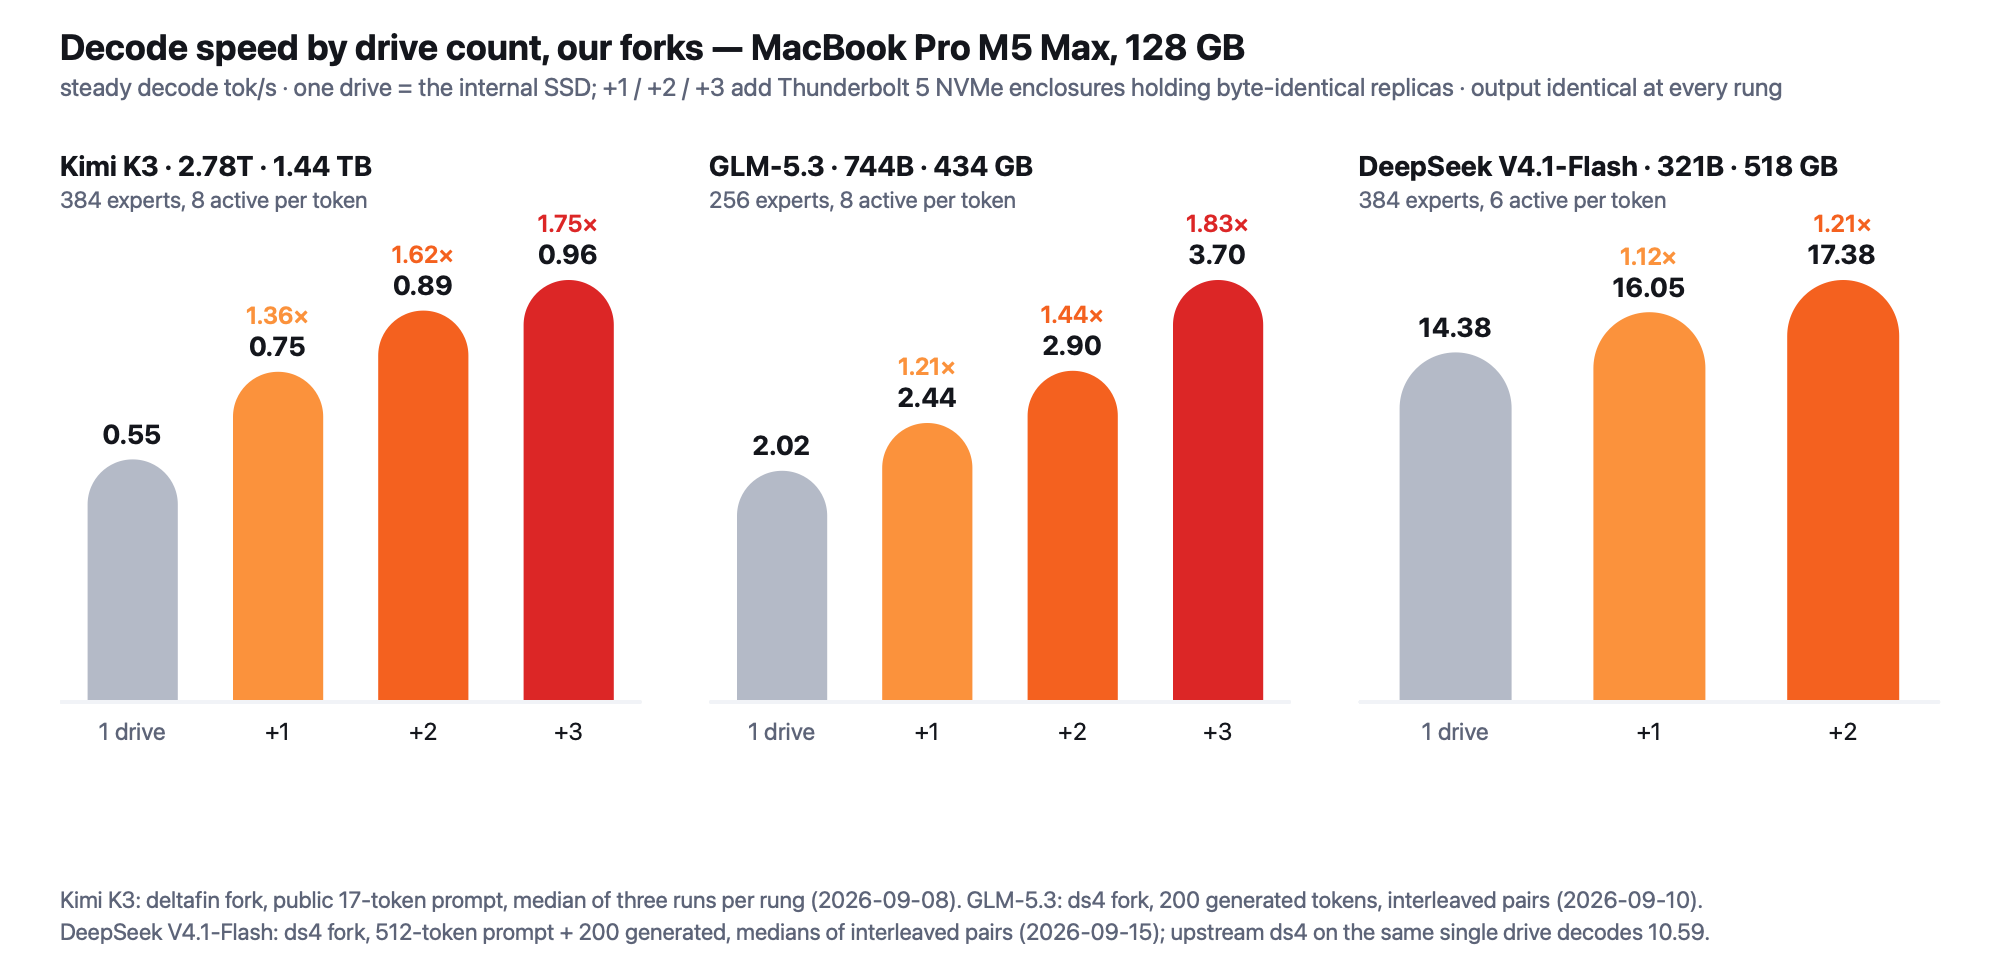
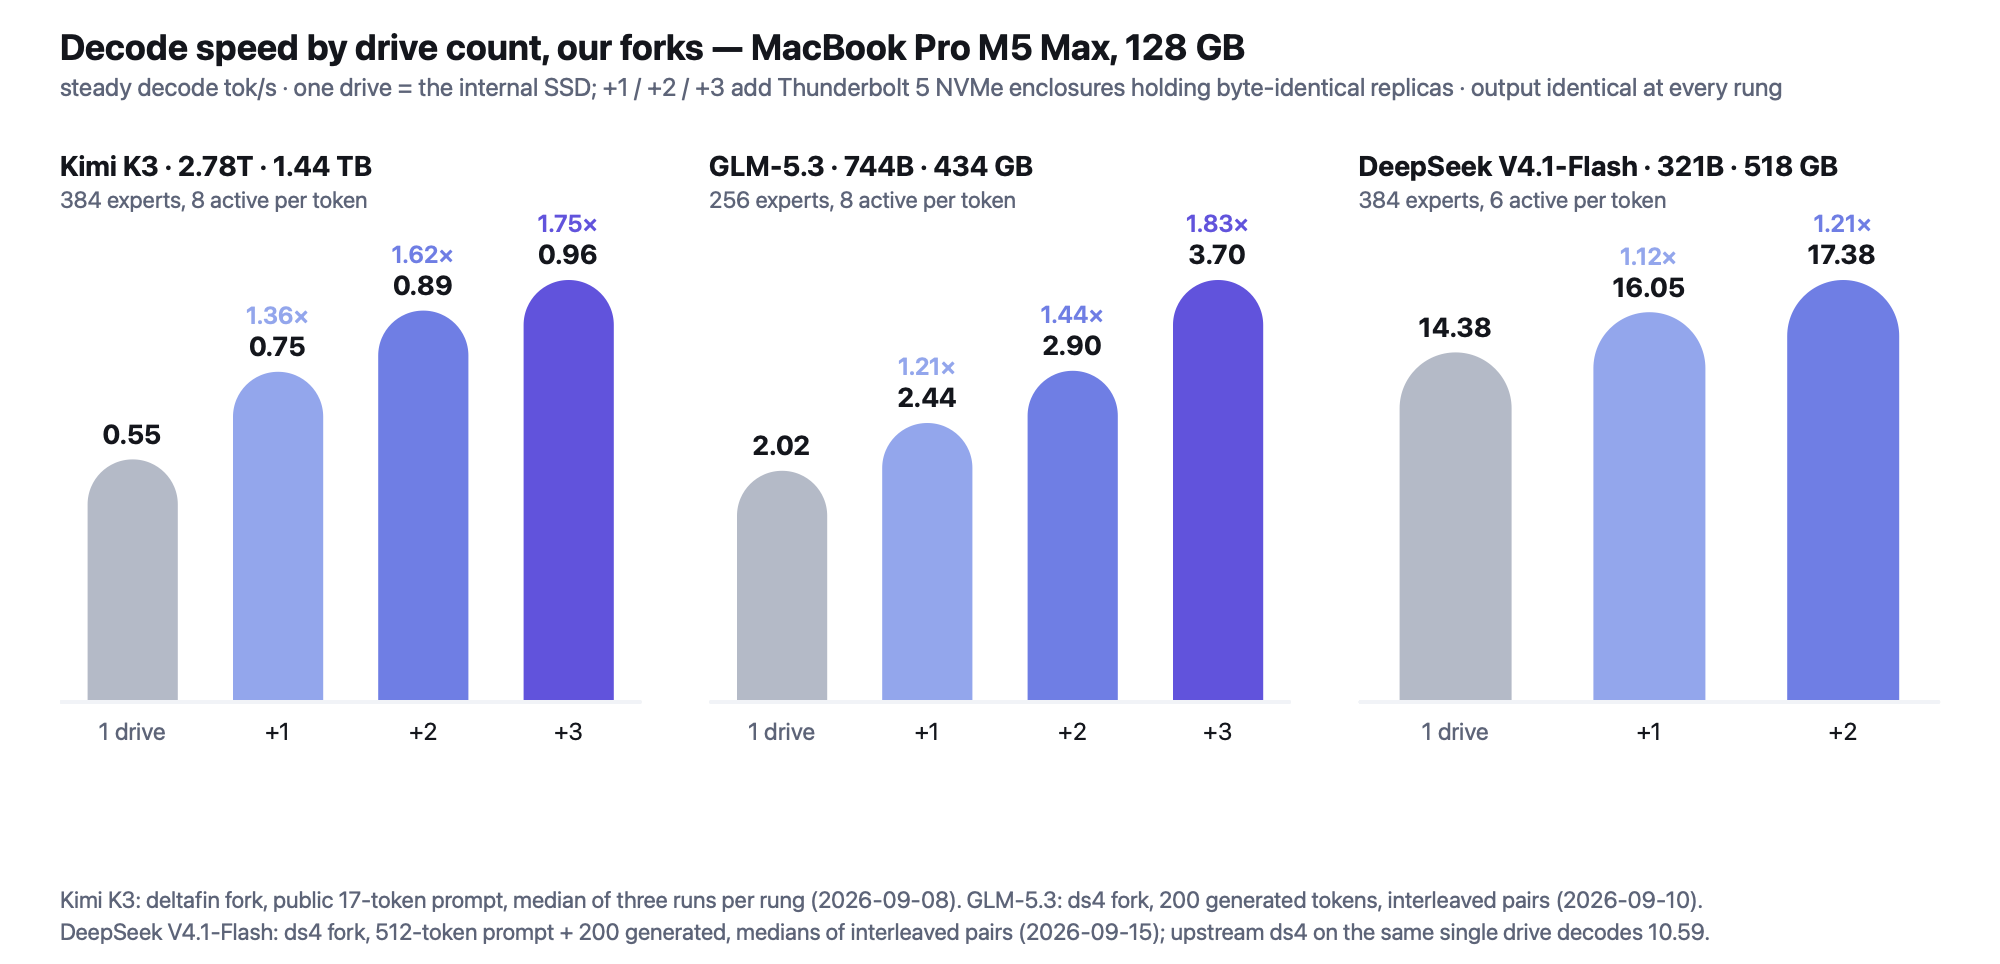
charts: theme indigo-blue ramp for every bar chart (base stays grey)
Ramp built on the argodrive accent #6153dc: soft blue, blue-indigo, accent, deep indigo;
dark mode runs periwinkle to the lavender accent #b0a2ff. Numbers unchanged.

Claude-Session: https://claude.ai/code/session_01GyKwdksX8gTKkahyvudEAM

diff --git a/charts/make-ladder.py b/charts/make-ladder.py
@@ -10,7 +10,7 @@ def chart(data, dark=False):
     bg      = '#0d1017' if dark else '#ffffff'
     base    = '#6b7280' if dark else '#b4bac7'
     track   = '#1a1f2b' if dark else '#f1f3f7'
-    accents = ['#fdba74', '#fb923c', '#f87171'] if dark else ['#fb923c', '#f4611f', '#dc2626']
+    accents = ['#6f7ee4', '#8c82f0', '#b0a2ff'] if dark else ['#93a6ec', '#6f7ee4', '#6153dc']
     W, panel_h, pad_l, pad_r, top = 1000, 204, 196, 26, 56
     rows = []
     for pi, (metric, unit) in enumerate([('prefill', 'prompt processing tok/s'), ('decode', 'steady decode tok/s')]):

diff --git a/charts/make-bars.py b/charts/make-bars.py
@@ -18,7 +18,7 @@ def chart(spec, dark=False):
     bg = '#0d1017' if dark else '#ffffff'
     base = '#6b7280' if dark else '#b4bac7'
     track = '#1a1f2b' if dark else '#f1f3f7'
-    accents = ['#fdba74', '#fb923c', '#f87171', '#dc2626'] if dark else ['#fb923c', '#f4611f', '#dc2626', '#991b1b']
+    accents = ['#6f7ee4', '#8c82f0', '#a394f7', '#b0a2ff'] if dark else ['#93a6ec', '#6f7ee4', '#6153dc', '#4338b3']
     W, pad_l, pad_r, top = 1000, int(spec.get('pad_left', 236)), 26, 56
     radius = float(spec.get('radius', 12))
     panels = spec['panels']

diff --git a/charts/make-columns.py b/charts/make-columns.py
@@ -19,7 +19,7 @@ def chart(spec, dark=False):
     bg = '#0d1017' if dark else '#ffffff'
     base = '#6b7280' if dark else '#b4bac7'
     track = '#1a1f2b' if dark else '#f1f3f7'
-    accents = ['#fdba74', '#fb923c', '#f87171', '#dc2626'] if dark else ['#fb923c', '#f4611f', '#dc2626', '#991b1b']
+    accents = ['#6f7ee4', '#8c82f0', '#a394f7', '#b0a2ff'] if dark else ['#93a6ec', '#6f7ee4', '#6153dc', '#4338b3']
     panels = spec['panels']
     W, top, gap, pad = 1000, 70, 34, 30
     panel_w = (W - 2 * pad - gap * (len(panels) - 1)) / len(panels)
